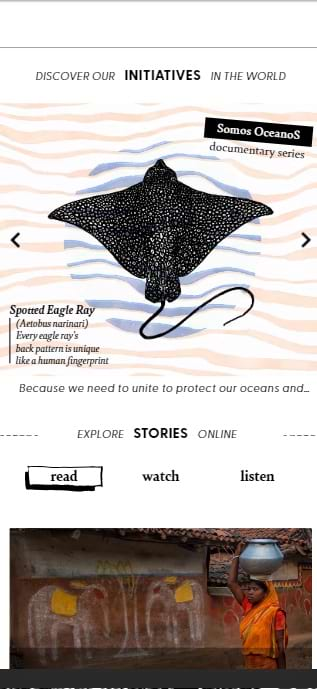
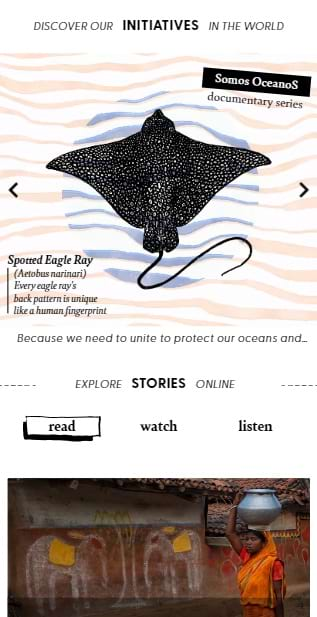
Mobile Language done

diff --git a/src/components/NavbarList.vue b/src/components/NavbarList.vue
@@ -1,11 +1,16 @@
 <template>
 	<div class="flex items-center">
-		<ul class="flex items-center">
-			<li class="justify-start mr-[2.4rem] cursor-pointer">
+		<ul class="flex items-center flex-col custom-breakpoint:flex-row">
+			<li class="block custom-breakpoint:hidden">
+				<SelectLanguageMobile :language="language" :setLanguage="setLanguage"/>
+			</li>
+			<li
+				class="justify-start mr-[2.4rem] custom-breakpoint:mt-0 mt-[4.8rem] cursor-pointer"
+			>
 				<LensIcon />
 			</li>
 			<li
-				class="justify-start mr-[2.4rem] cursor-pointer relative"
+				class="justify-start mr-[2.4rem] custom-breakpoint:mt-0 mt-[2.4rem] cursor-pointer relative"
 				@click="selectActive('about')"
 			>
 				<span class="hover:text-primary text-xl font-custom-text"
@@ -14,7 +19,7 @@
 				<UnderlineIcon :activePage="activePage" :elem="'about'" />
 			</li>
 			<li
-				class="justify-start mr-[2.4rem] cursor-pointer relative"
+				class="justify-start mr-[2.4rem] custom-breakpoint:mt-0 mt-[2.4rem] cursor-pointer relative"
 				@click="
 					() => {
 						selectActive('events');
@@ -27,7 +32,7 @@
 				>
 			</li>
 			<li
-				class="justify-start mr-[2.4rem] cursor-pointer relative"
+				class="justify-start mr-[2.4rem] custom-breakpoint:mt-0 mt-[2.4rem] cursor-pointer relative"
 				@click="selectActive('engage')"
 			>
 				<span class="hover:text-primary text-xl font-custom-text"
@@ -36,7 +41,7 @@
 				<UnderlineIcon :activePage="activePage" :elem="'engage'" />
 			</li>
 			<li
-				class="hover:text-primary justify-start mr-[2.4rem] cursor-pointer"
+				class="hover:text-primary justify-start mr-[2.4rem] custom-breakpoint:mt-0 mt-[2.4rem] cursor-pointer"
 				@click="selectActive('user')"
 			>
 				<UserIcon />
@@ -49,13 +54,15 @@
 import UserIcon from '@/assets/icons/User.vue';
 import LensIcon from '@/assets/icons/Lens.vue';
 import UnderlineIcon from '@/assets/icons/Underline.vue';
+import SelectLanguageMobile from './SelectLanguageMobile.vue';
 export default {
 	name: 'NavbarList',
-	props: ['changeActivePage', 'activePage', 'toggleBanner'],
+	props: ['changeActivePage', 'activePage', 'toggleBanner','language','setLanguage'],
 	components: {
 		UserIcon,
 		LensIcon,
 		UnderlineIcon,
+		SelectLanguageMobile,
 	},
 	methods: {
 		selectActive(value) {

diff --git a/src/App.vue b/src/App.vue
@@ -5,12 +5,15 @@
 				:changeActivePage="changeActivePage"
 				:activePage="activePage"
                 :toggleBanner="toggleBanner"
+                :isMobileNavbarActive="isMobileNavbarActive"
+                :toggleMobileNavbar="toggleMobileNavbar"
 			/>
 			<MarqueeBar />
 			<PageView :activePage="activePage" />
 		</div>
 
 		<EventsBanner :activePage="activePage" :isBannerActive="isBannerActive" :toggleBanner="toggleBanner"/>
+        <MobileNavbar :isMobileNavbarActive="isMobileNavbarActive" :toggleMobileNavbar="toggleMobileNavbar" :language="language" :setLanguage="setLanguage"/>
 	</div>
 </template>
 
@@ -19,6 +22,7 @@ import AppNavbar from './components/AppNavbar.vue';
 import MarqueeBar from './components/MarqueeBar.vue';
 import PageView from './components/PageView.vue';
 import EventsBanner from './components/EventsBanner.vue';
+import MobileNavbar from './components/MobileNavbar.vue';
 
 export default {
 	name: 'App',
@@ -27,11 +31,14 @@ export default {
 		MarqueeBar,
 		PageView,
 		EventsBanner,
+		MobileNavbar,
 	},
 	data() {
 		return {
 			activePage: 'home',
 			isBannerActive: false,
+            isMobileNavbarActive: false,
+            language:'En'
 		};
 	},
 	methods: {
@@ -41,6 +48,12 @@ export default {
 		toggleBanner() {
 			this.isBannerActive = !this.isBannerActive;
 		},
+        toggleMobileNavbar() {
+			this.isMobileNavbarActive = !this.isMobileNavbarActive;
+		},
+        setLanguage(language) {
+            this.language = language
+        }
 	},
 };
 </script>

diff --git a/src/components/SelectLanguageMobile.vue b/src/components/SelectLanguageMobile.vue
@@ -1,0 +1,57 @@
+<template lang="">
+	<section class="w-[12rem] text-base font-custom-text">
+		<div
+			class="flex bg-dark text-white self-center h-[3.6rem] justify-between items-center px-[1.5rem] relative"
+		>
+			<span>{{ language === 'En' ? 'English' : 'French' }}</span>
+			<ChevronUp
+				:class="[isCollapsed ? 'block' : 'hidden']"
+				@click="toggleCollapsed()"
+			/>
+			<ChevronDown
+				class="rotate-180"
+				:class="[isCollapsed ? 'hidden' : 'block']"
+				@click="toggleCollapsed()"
+			/>
+		</div>
+		<div
+			class="absolute flex flex-col justify-between items-center shadow-xl"
+			:class="[isCollapsed ? 'hidden' : 'block']"
+		>
+			<div
+				class="flex items-center justify-start h-[3.6rem] px-[1.5rem] w-[12rem] bg-white"
+                @click="setLanguage('En')"
+			>
+				English
+			</div>
+			<div
+				class="flex items-center justify-start h-[3.6rem] px-[1.5rem] w-[12rem] bg-white"
+                @click="setLanguage('Fr')"
+			>
+				French
+			</div>
+		</div>
+	</section>
+</template>
+<script>
+import ChevronUp from '@/assets/icons/ChevronUp.vue';
+import ChevronDown from '@/assets/icons/ChevronDown.vue';
+export default {
+	name: 'SelectLanguageMobile',
+	props: ['language','setLanguage'],
+	components: {
+		ChevronUp,
+		ChevronDown,
+	},
+	data() {
+		return {
+			isCollapsed: 'true',
+		};
+	},
+	methods: {
+		toggleCollapsed() {
+			this.isCollapsed = !this.isCollapsed;
+		},
+	},
+};
+</script>

diff --git a/src/components/AppNavbar.vue b/src/components/AppNavbar.vue
@@ -5,10 +5,10 @@
 		>
 			<OneWaterIcon :changeActivePage="changeActivePage"/>
 			<div class="block custom-breakpoint:hidden">
-				<HamburgerIcon />
+				<HamburgerIcon @click="toggleMobileNavbar()"/>
 			</div>
 			<div class="hidden custom-breakpoint:block">
-				<NavbarList :changeActivePage="changeActivePage" :activePage="activePage" :toggleBanner="toggleBanner"/>
+				<NavbarList :changeActivePage="changeActivePage" :activePage="activePage" :toggleBanner="toggleBanner" :language="language"/>
 			</div>
 		</div>
 	</nav>
@@ -20,7 +20,7 @@ import HamburgerIcon from '@/assets/icons/Hamburger.vue';
 import NavbarList from './NavbarList.vue';
 export default {
 	name: 'AppNavbar',
-    props: ['changeActivePage','activePage','toggleBanner'],
+    props: ['changeActivePage','activePage','toggleBanner','toggleMobileNavbar','isMobileNavbarActive','language'],
 	components: {
 		OneWaterIcon,
 		HamburgerIcon,

diff --git a/src/components/MobileNavbar.vue b/src/components/MobileNavbar.vue
@@ -1,0 +1,18 @@
+<template lang="">
+    <section
+		class="flex flex-col z-[2] fixed top-0 right-0 h-screen w-[25rem] px-[3.6rem] pt-[6.2rem] items-center text-dark bg-white overflow-auto custom-scroll"
+		v-if="isMobileNavbarActive"
+	>
+    <NavbarList :changeActivePage="changeActivePage" :activePage="activePage" :toggleBanner="toggleBanner" :language="language" :setLanguage="setLanguage"/>
+	</section>
+</template>
+<script>
+import NavbarList from './NavbarList.vue';
+export default {
+    name:'MobileNavbar',
+    components: {
+		NavbarList,
+	},
+	props: ['isMobileNavbarActive', 'toggleMobileNavbar','language','setLanguage'],
+}
+</script>

diff --git a/src/components/EngagePage.vue b/src/components/EngagePage.vue
@@ -1,6 +1,7 @@
 <template lang="">
     <div class="justify-center flex">
-        <img loading="lazy" class="w-[77%]" src="../assets/img/EngageImg.jpg" alt="Engage page in image">
+        <img loading="lazy" class="w-[100%] block custom-breakpoint:hidden" src="../assets/img/EngageMobile.jpg" alt="Engage page in image" >
+        <img loading="lazy" class="w-[77%] hidden custom-breakpoint:block" src="../assets/img/EngageImg.jpg" alt="Engage page in image">
     </div>
 </template>
 <script>

diff --git a/src/components/AboutPage.vue b/src/components/AboutPage.vue
@@ -1,6 +1,7 @@
 <template lang="">
     <div class="justify-center flex">
-        <img loading="lazy" class="w-[77%]" src="../assets/img/AboutImg.jpg" alt="about page in image">
+        <img loading="lazy" class="w-[100%] block custom-breakpoint:hidden" src="../assets/img/AboutMobile.jpg" alt="About page in image" >
+        <img loading="lazy" class="w-[77%] hidden custom-breakpoint:block" src="../assets/img/AboutImg.jpg" alt="About page in image">
     </div>
 </template>
 <script>

diff --git a/src/components/HomePage.vue b/src/components/HomePage.vue
@@ -1,6 +1,7 @@
 <template lang="">
     <div class="justify-center flex">
-        <img loading="lazy" class="w-[77%]" src="../assets/img/HomeImg.jpg" alt="Home page in image">
+        <img loading="lazy" class="w-[100%] block custom-breakpoint:hidden" src="../assets/img/HomeMobile.jpg" alt="Home page in image" >
+        <img loading="lazy" class="w-[77%] hidden custom-breakpoint:block" src="../assets/img/HomeImg.jpg" alt="Home page in image">
     </div>
 </template>
 <script>

diff --git a/src/components/EventsBanner.vue b/src/components/EventsBanner.vue
@@ -1,6 +1,6 @@
 <template>
 	<section
-		class="flex flex-col z-[2] fixed top-0 right-0 h-screen w-[25rem] px-[1.2rem] py-[2.4rem] items-center text-dark bg-white overflow-auto custom-scroll"
+		class="flex flex-col z-[3] fixed top-0 right-0 h-screen w-[25rem] px-[1.2rem] py-[2.4rem] items-center text-dark bg-white overflow-auto custom-scroll"
 		v-if="isBannerActive"
 	>
 		<CloseIcon :toggleBanner="toggleBanner" />

diff --git a/src/assets/icons/ChevronDown.vue b/src/assets/icons/ChevronDown.vue
@@ -1,0 +1,21 @@
+<template lang="">
+	<div>
+		<svg
+			xmlns="http://www.w3.org/2000/svg"
+			width="1em"
+			height="1em"
+			viewBox="0 0 24 24"
+		>
+			<path
+				fill="currentColor"
+				d="M7.41 15.41L12 10.83l4.59 4.58L18 14l-6-6l-6 6l1.41 1.41Z"
+			></path>
+		</svg>
+	</div>
+</template>
+
+<script>
+export default {
+	name: 'ChevronDown',
+};
+</script>

diff --git a/src/assets/icons/ChevronUp.vue b/src/assets/icons/ChevronUp.vue
@@ -1,0 +1,20 @@
+<template lang="">
+	<div>
+		<svg
+			xmlns="http://www.w3.org/2000/svg"
+			width="1em"
+			height="1em"
+			viewBox="0 0 24 24"
+		>
+			<path
+				fill="currentColor"
+				d="M7.41 15.41L12 10.83l4.59 4.58L18 14l-6-6l-6 6l1.41 1.41Z"
+			></path>
+		</svg>
+	</div>
+</template>
+<script>
+export default {
+	name: 'ChevronUp',
+};
+</script>

diff --git a/tailwind.config.js b/tailwind.config.js
@@ -17,7 +17,8 @@ module.exports = {
             colors:{
 				'custom-gray': '#E2E2E2',
                 'dark': '#333333',
-                'primary':'rgb(160, 200, 255)'
+                'primary':'rgb(160, 200, 255)',
+                'white':'white'
             }
 		},
 	},
